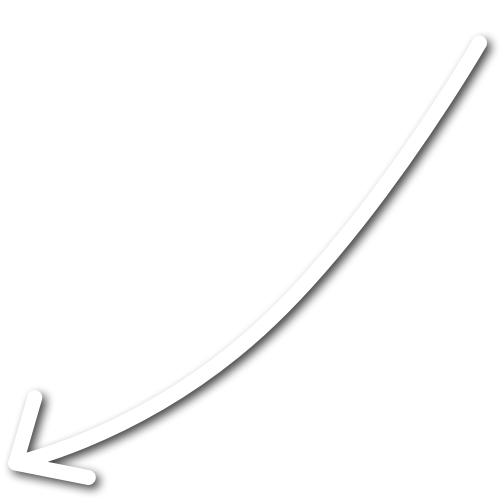
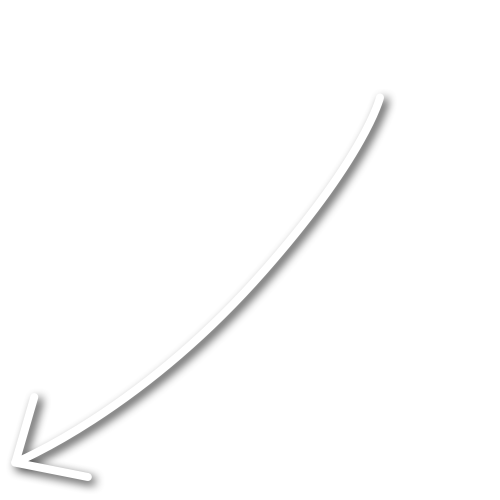
finished the new first time start screen

Changed region(s): [[0.0, 0.06, 0.99, 0.99]]

diff --git a/app/src/app/controller/Lounge.js b/app/src/app/controller/Lounge.js
@@ -11,7 +11,7 @@ Ext.define('EatSense.controller.Lounge', {
 	* @param {EatSense.model.Area} the new area
 	*/
 
-	requires: ['EatSense.util.DashboardItemTemplates', 'EatSense.view.Help'],
+	requires: ['EatSense.util.DashboardItemTemplates', 'EatSense.view.DashboardHelp'],
 	config: {
 		refs: {
 			mainview: 'mainview',
@@ -49,12 +49,7 @@ Ext.define('EatSense.controller.Lounge', {
 			  this.initDashboard();
 			  this.buildDashboard();
 
-			  // if(checkInCtr.getAppState().get('firstCheckin')) {
-			  	//display a help message on first checkin
-		        var helpPanel = Ext.create('EatSense.view.Help');
-		        Ext.Viewport.add(helpPanel);
-		        checkInCtr.getAppState().set('firstCheckin', false);
-		      // }
+			  this.checkFirstDashboardView(checkInCtr.getAppState());
 
 			  me.getClubDashboard().on({
 			  	'tilesrendered' : function() {
@@ -661,6 +656,18 @@ Ext.define('EatSense.controller.Lounge', {
 		} catch(e) {
 		  console.error('Lounge.cleanup: failed ' + e);
 		}
+	 },
+	 /**
+	 * Checks if this is the first time user sees the dashboard.
+	 * Displays a helping text in an overlay.
+	 */
+	 checkFirstDashboardView: function(appState) {
+	 	var helpPanel;
 
+	 	 if(appState.get('firstDashboardView')) {			  	
+	        helpPanel = Ext.create('EatSense.view.DashboardHelp');
+	        Ext.Viewport.add(helpPanel);
+	        appState.set('firstDashboardView', false);
+	      }
 	 }
 });

diff --git a/app/src/app/view/DashboardHelp.js b/app/src/app/view/DashboardHelp.js
@@ -1,9 +1,8 @@
 /**
-* A floating panel displaing a help text.
-*
-*
+* A floating panel displaing a help text and arrow graphics for dashboard.
+* 
 */
-Ext.define('EatSense.view.Help', {
+Ext.define('EatSense.view.DashboardHelp', {
 	extend: 'Ext.Panel',
 	config: {
 		modal: true,
@@ -27,7 +26,7 @@ Ext.define('EatSense.view.Help', {
 				html: i10n.translate('general.help.dashboard.msg'),
 				style: {
 					'color' : 'white',
-					'text-align' : 'center',
+					'text-align' : 'center'
 					// 'font-size' : '20px',
 					// 'padding' : '20px'
 				}
@@ -41,7 +40,7 @@ Ext.define('EatSense.view.Help', {
 			},
 			{
 				xtype: 'label',
-				html: '<div style="position: fixed; height: 35%; width: 50%; bottom: 5px; left: 40px;">'+
+				html: '<div style="position: fixed; height: 35%; width: 50%; bottom: 22px; left: 55px;">'+
 				'<img src="res/images/help/arrow_sw.png" width="100%" height="100%"></div>'
 			}
 		]

diff --git a/app/src/app/util/Translations.js b/app/src/app/util/Translations.js
@@ -84,8 +84,8 @@ Ext.define('EatSense.util.Translations',{
 			"IT" : ""
 		},
 		"general.help.dashboard.msg" : {
-			"DE" :  "<b>Willkommen</b><br/>Um auf das Menü zuzugreifen, tippen Sie auf die Lasche links unten oder wischen Sie vom linken Rand nach rechts.",
-			"EN" : "<b>Welcome</b> to your first Check-In."
+			"DE" :  "<b>Willkommen</b><br/>Um auf das Menü zuzugreifen,<br/>tippen Sie auf die Lasche links unten<br/> oder wischen Sie vom linken<br/> zum rechten Rand.",
+			"EN" : "<b>Welcome</b><br/>You can access the menu<br/> by tapping the button at the lower left<br/> or by swiping from the left<br/> to the right edge."
 		},
 		"general.help.dashboard.gotit" : {
 			"DE" :  "Alles klar!",

diff --git a/app/src/app/model/AppState.js b/app/src/app/model/AppState.js
@@ -38,8 +38,8 @@ Ext.define('EatSense.model.AppState', {
 			name: 'prevStatus',
 			type: 'string'
 		},
-		{
-			name: 'firstCheckin',
+		{	//indicates if this is the first dashboard view
+			name: 'firstDashboardView',
 			type: 'boolean',
 			defaultValue: true
 		} ]
